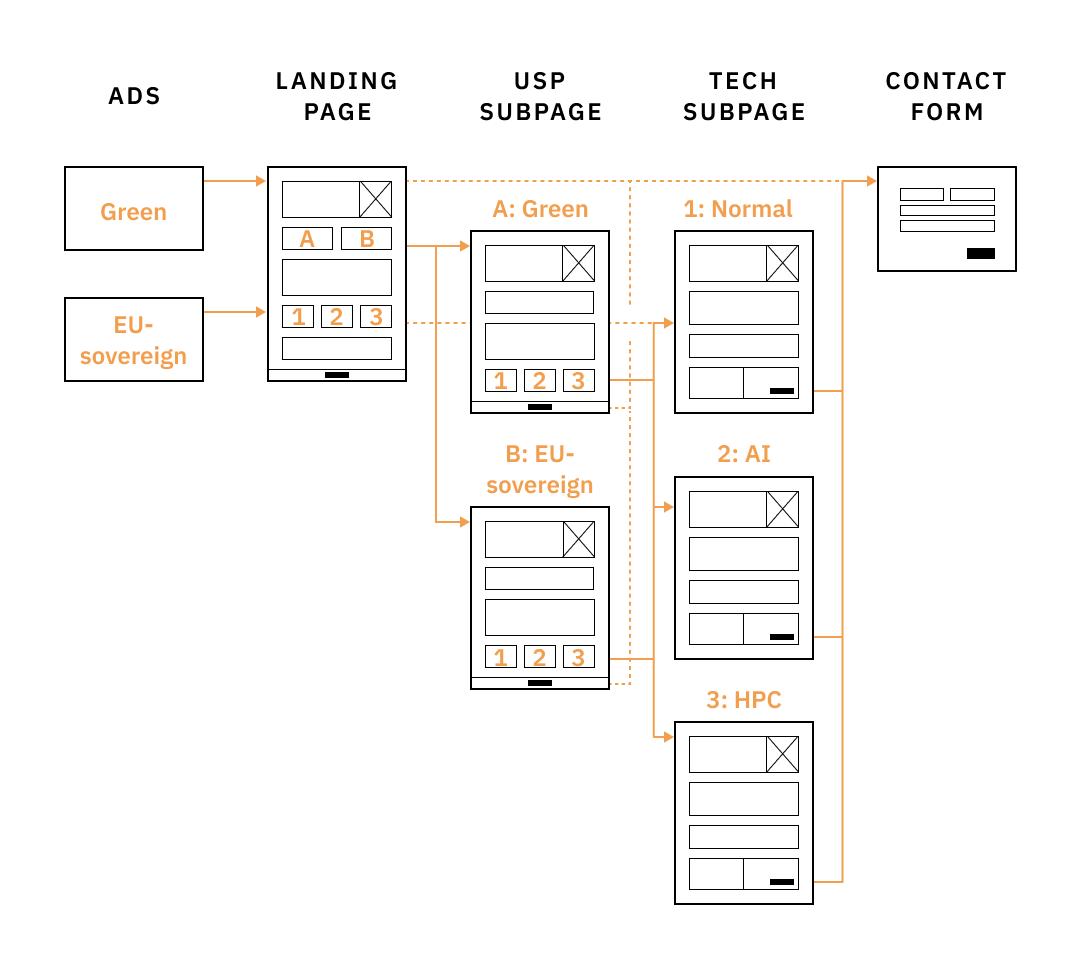
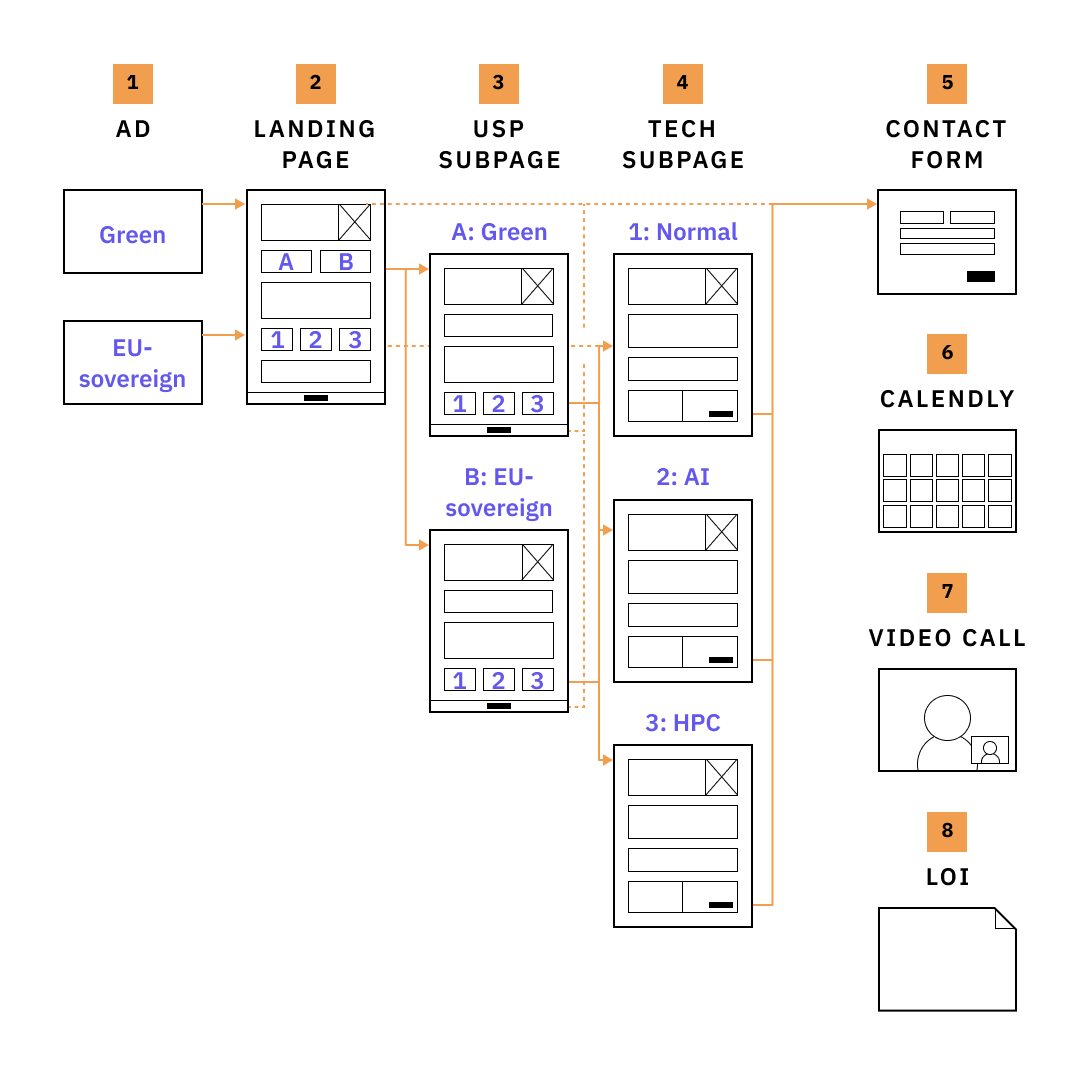
app case updated

diff --git a/projects/greenIT/index.html b/projects/greenIT/index.html
@@ -28,7 +28,7 @@
 <p class="text-highlight"><span>Powering energy-intensive cloud computing services directly with energy from their own wind and solar parks, and selling them to other businesses.</span></p>
 <p>The project lead was pushing for an investment, while the other stakeholders saw too much uncertainty. Eva (lead innovation consultant) and I were brought in to enable a decision.</p>
 <h2>Big market, strong competition</h2>
-<p>70-90% of the 100 Bn. € European cloud market is dominated by the seemingly invincible hyperscalers AWS, Azure and GCP. But the outlook that only 1% of the non-hyperscaler market are worth 100 Mio. €, was sufficient as a perspective to pursue this opportunity.</p>
+<p>70-90% of the 100 Bn. € European cloud market is dominated by the seemingly invincible hyperscalers AWS, Azure and Google Cloud. But the outlook that only 1% of the non-hyperscaler market are worth 100 Mio. €, was a sufficient perspective to pursue this opportunity.</p>
 <p><img src="/assets/market-size.png" alt="&lt;!-- TODO alt text --&gt;"></p>
 <p class="img-description">1% of the non-hyperscaler market is worth 100 Mio. €</p>
 <h2>Hypotheses &amp; alignment on a goal</h2>
@@ -43,69 +43,53 @@
 <h2>Research: Who is buying, and why?</h2>
 <p>To use the right keywords in our test, we researched which value propositions our competitors used to market their cloud services. While value propositions using one or two of the values sustainability, high performance, and EU-sovereignty are already occupied, the combination of the three values seemed attractive for our positioning.
 <img src="/assets/value-propositions.png" alt="&lt;!-- TODO alt text --&gt;"></p>
-<p class="img-description">A combination of 3 value propositions for a niche in the market</p>
+<p class="img-description">A combination of 3 value propositions gives a niche in the market</p>
 <h4>Customer segments &amp; buyer profiles</h4>
-<p>To target the right people with our advertisement budget, we developed a set of customer segments and buyer profiles, utilizing the project lead's experience and supporting desk research.</p>
-<!-- - Public sector & suppliers → EU sovereignty: High requirements for GDPR compliance
-- Highly confidential industries (e.g. automotive, pharma) → EU sovereignty: No data on foreign servers, High-power: Energy-intense processing (e.g. CFD)
-- Other cloud-service providers (as whitelabel IaaS) → Differentiate their offering -->
-<h2>Experiment design</h2>
-<p><img src="/assets/img-experiment-design.jpg" alt="&lt;!-- TODO alt text --&gt;"></p>
-<p><img src="/assets/page-flow.png" alt="&lt;!-- TODO alt text --&gt;"></p>
-<p class="img-description">Different ads and subpages let us track what prospects are interested in</p>
+<p>To target the right people with our advertisement budget, we developed a rough set of customer segments and buyer profiles, utilizing the project lead's experience and supporting desk research.</p>
 <ul>
-<li>Test 2 unique value propositions → 2 different ads, subpages for more info</li>
-<li>Test 3 cloud computing offerings (= different hardware that needs to be bought)</li>
-<li>Form in the end, 2 versions for 2 different segments</li>
-<li>What to measure: Path through site, CTRs for the ads</li>
-<li>Success: 3 letters of intent (LOI)</li>
+<li>Customer segments: Public sector, highly-confidential industries (e.g. automotive, pharma), other cloud-service providers</li>
+<li>Profiles: CTOs, research/engineering department leads</li>
 </ul>
-<h5><em>Include images:</em></h5>
-<ol>
-<li>Wireframes – gesamter Flow</li>
-<li>(Wireframe sections? Ads → Website, Website + Unterseiten + Formular, Calendly &amp; weiterer Prozess)</li>
-</ol>
+<h2>Smart test setup for extra insights</h2>
+<p>After clicking on a Google or LinkedIn ad for the service, the ideal prospects go through a landing page and optional subpages before filling out a contact form. We included:</p>
+<ul>
+<li>2 ad versions, to compare click-through rates of the &quot;sustainability&quot; and &quot;EU sovereignity&quot; value propositions</li>
+<li>Subpages for the 2 value propositions</li>
+<li>Subpages for 3 hardware configurations, to inform investment decision</li>
+</ul>
+<p>We would then use Calendly to schedule a video call, through which the client project lead would try to get one of 3 LOIs.</p>
+<p><img src="/assets/experiment-design.png" alt="&lt;!-- TODO alt text --&gt;"></p>
+<p class="img-description">Different ads and subpages let us measure what prospects are interested in</p>
 <h2>Creating a 6-page website in just 2 weeks</h2>
-<p><img src="/assets/img-brand-chart.png" alt="A coordinate system of different brand directions, with &quot;Fancy&quot; on the top, &quot;Friendly&quot; on the right, &quot;Quirky&quot; on the bottom, &quot;Techie&quot; on the right, and &quot;Clean/Simple&quot; in the middle. A dashed box highlights the intended brand area between &quot;Techie&quot; and &quot;Clean/Simple&quot;."></p>
+<p>The project plan included only 2 weeks to design the ads and the whole website. I managed to meet the timeline with a structured process from lo- to hi-fidelity:</p>
+<p>Being specific with the brand helped to make visual design decisions faster and to prevent subjective discussions about taste:
+<img src="/assets/img-brand-chart.png" alt="A coordinate system of different brand directions, with &quot;Fancy&quot; on the top, &quot;Friendly&quot; on the right, &quot;Quirky&quot; on the bottom, &quot;Techie&quot; on the right, and &quot;Clean/Simple&quot; in the middle. A dashed box highlights the intended brand area between &quot;Techie&quot; and &quot;Clean/Simple&quot;."></p>
 <p class="img-description">For this tech service, a slightly technical brand makes sense.</p>
-<p><img src="/assets/visual-design.png" alt="&lt;!-- TODO alt text --&gt;"></p>
-<p class="img-description">Combining free & versatile assets to achieve a consistent, convincing brand.</p>
+<p>Visual design is an important element in making a landing page appealing, but there were little visual assets available. As a solution, I combined what was available with free, versatile vector graphics and a dot pattern to prototype a consistent-enough visual design that fits the technical topic.
+<img src="/assets/visual-design.png" alt="&lt;!-- TODO alt text --&gt;"></p>
+<p class="img-description">Combining free & versatile assets to achieve a consistent, fitting brand.</p>
 <p><img src="/assets/landing-page.png" alt="&lt;!-- TODO alt text --&gt;"></p>
 <p class="img-description">Combining all content in a responsive website</p>
+<h2>Clear test results &amp; extra effort</h2>
+<p>With 4 weeks duration and 3000€ budget for LinkedIn and Google ads, we got these results:</p>
 <ul>
-<li>
-<p>Very short time, 2 weeks → Focus on most important elements, prototype the rest</p>
-</li>
-<li>
-<p>Limited visual assets = hi-res energy infrastructure photos → amend with dot patterns, isometric illustrations, icons to create consistent brand</p>
-</li>
-<li>
-<p>Marketing landing page, appearance is important</p>
-</li>
-<li>
-<p>Short time &amp; very limited access to visual assets</p>
-</li>
-<li>
-<p>Smart decisions:</p>
-<ul>
-<li>Combine 2 pictures to express the combination of hi-tech &amp; sustainable energy</li>
-<li>Modify free vector graphics to fit our purpose</li>
-<li>Use subtle dot pattern to create a common element</li>
+<li>ca. 100k ad impressions</li>
+<li>ca. 300 clicks</li>
+<li>12 signups – all of which were spam</li>
 </ul>
-</li>
-</ul>
-<h2>Results &amp; interpretation</h2>
-<ul>
-<li>12 contact form submits, 0 qualified / answering</li>
-<li>(can I find the funnel?) 3000-4000 € budget? 100k impressions? 90-120 visits? Was stimmt hier nicht?</li>
-<li>Ergebnis klar negativ, user paths / flows nicht ausgewertet</li>
-<li>Hypothese falscher Kanal statt undesirable offering → Qual. interviews auf Fachmesse → Nicht desirable, nicht unique ggü. competition</li>
-</ul>
-<h2>Pivot</h2>
-<ul>
-<li>Colocation statt IaaS → viel leichtere Competition da keine Hyperscalers, näher an eigener Kompetenz (Energiekonzern)</li>
-<li>Durch co-created experiment &amp; Ergebnisse buy-in from client project lead</li>
-</ul>
+<p>With such a clear result, we skipped analyzing the details and used the available time to eliminate the chance we chose the wrong channel to sell a desirable idea.</p>
+<h3>Qualitative interviews at the Cloud Expo</h3>
+<p>My colleague Markus and I visited a cloud computing trade fair in Frankfurt a. M. and conducted quick interviews with industry experts to assess the desirability of the 3 different value propositions sustainability, EU-sovereignty and high performance.</p>
+<h4>Key insights:</h4>
+<ol>
+<li>Customers would not choose our client over established cloud providers to run their (business-critical) cloud infrastructure</li>
+<li>Using renewable energy is already commoditized, and directly used renewable energy is not perceived better than when certificates are used → no differentiation</li>
+<li>EU sovereignty needed to be thought holistically: To stand out, a company had to refrain from any servers overseas – including those used to run the internal CMS, video conferencing and email.</li>
+</ol>
+<h2>Clear result, plus an opportunity to pivot</h2>
+<p>The venture idea failed to induce 3 LOIs, which disprove its desirability. Additionally, the business case showed a necessary investment of more than 10 Mio. €, otherwise looking viable with the right demand.</p>
+<p>In the last week before the final presentation, we could convince the project lead, who was focused on this venture idea for multiple years, to consider offering colocation services: Less profit, but also saving 90% investment related to cloud hardware, avoiding the competition with hyperscalers, and being closer to the company's core strength: Energy.</p>
+<p>Key here was involving the project lead in the project, experiment and insights, to get his buy-in for the pivot.</p>
 <article>
     <div class="article-image">
         <img class="article-img" src="/assets/gradient-p2.png" alt="" />

diff --git a/projects/app/index.html b/projects/app/index.html
@@ -32,12 +32,12 @@
 <p><img src="/assets/PO-concept.png" alt="&lt;!-- TODO alt text --&gt;"></p>
 <p class="img-description">Screenshot of the UX concept prepared by my product owner</p>
 <p>Not being familiar with the feature yet, I first sorted the information in:</p>
-<ul>
+<ol>
 <li>Business and customer goals</li>
 <li>Technical requirements for new functionality</li>
 <li>Ideas for new functionality</li>
 <li>Improvements for existing part</li>
-</ul>
+</ol>
 <h2>Fostering a productive relationship</h2>
 <p>The PO's emphasis on speed and corner-cutting was competing with the need for creating the necessary UX quality. To align our styles of working more, I first assessed the rationals behind the time pressure:</p>
 <ol>
@@ -51,6 +51,8 @@
 <li>Collaborating closely with PO &amp; tech lead to understand technical limitations and possibilities</li>
 <li>Using customer and business goals to guide discussions and compromises</li>
 </ul>
+<p><img src="/assets/design-process.png" alt="&lt;!-- TODO alt text --&gt;"></p>
+<p class="img-description">Sharing the latest state on Confluence, to make the progress transparent.</p>
 <h2>Business goals VS. user goals</h2>
 <p>There are 1 main and 2 fallback options for users to update their car's firmware. The promoted option utilizes the user's phone to download the update files, saving the corporation extra cost for network traffic.</p>
 <p><img src="/assets/installation-option-I.png" alt="&lt;!-- TODO alt text --&gt;"></p>
@@ -77,10 +79,19 @@
 <p>For the technical side, I collaborated closely with the PO and tech lead: We discovering dozens of edge cases and searched optimal compromises between implementation effort, and usability and delight.</p>
 <p>For design excellence, I gathered feedback from the project's design team in an insightful review format.</p>
 <p><img src="/assets/design-review.png" alt="&lt;!--TODO: alt text --&gt;"></p>
-<p class="img-description">Results from the design team review</p>
+<p class="img-description">Notes from the design team review</p>
 <p>We then tested the design in a scheduled usability test with 12 external people, to detect remaining unclear details in the flow.</p>
-<h2>Result</h2>
-<h2>(TBD: What I would do better now?)</h2>
+<h2>New and improved final design</h2>
+<p><img src="/assets/final-pt1.png" alt="&lt;!--TODO: alt text --&gt;"></p>
+<p class="img-description">New visual element (replica) showed the current step and affected devices</p>
+<h3>Improvements for existing part</h3>
+<p>We improved the part from downloading the update files to your phone until the update being ready for installation by small copy adjustments, and by integrating the new visual element:</p>
+<ul>
+<li>Clear indicator of the current step in the update process: Download, transfer, or install phase</li>
+<li>Indicator of which devices are currently used: Phone, car, or both</li>
+</ul>
+<h3>Designs for new functionality</h3>
+<p>(work in progress, will be added in a few hours)</p>
 <article>
     <div class="article-image">
         <img class="article-img" src="/assets/gradient-p1.png" alt="" />
